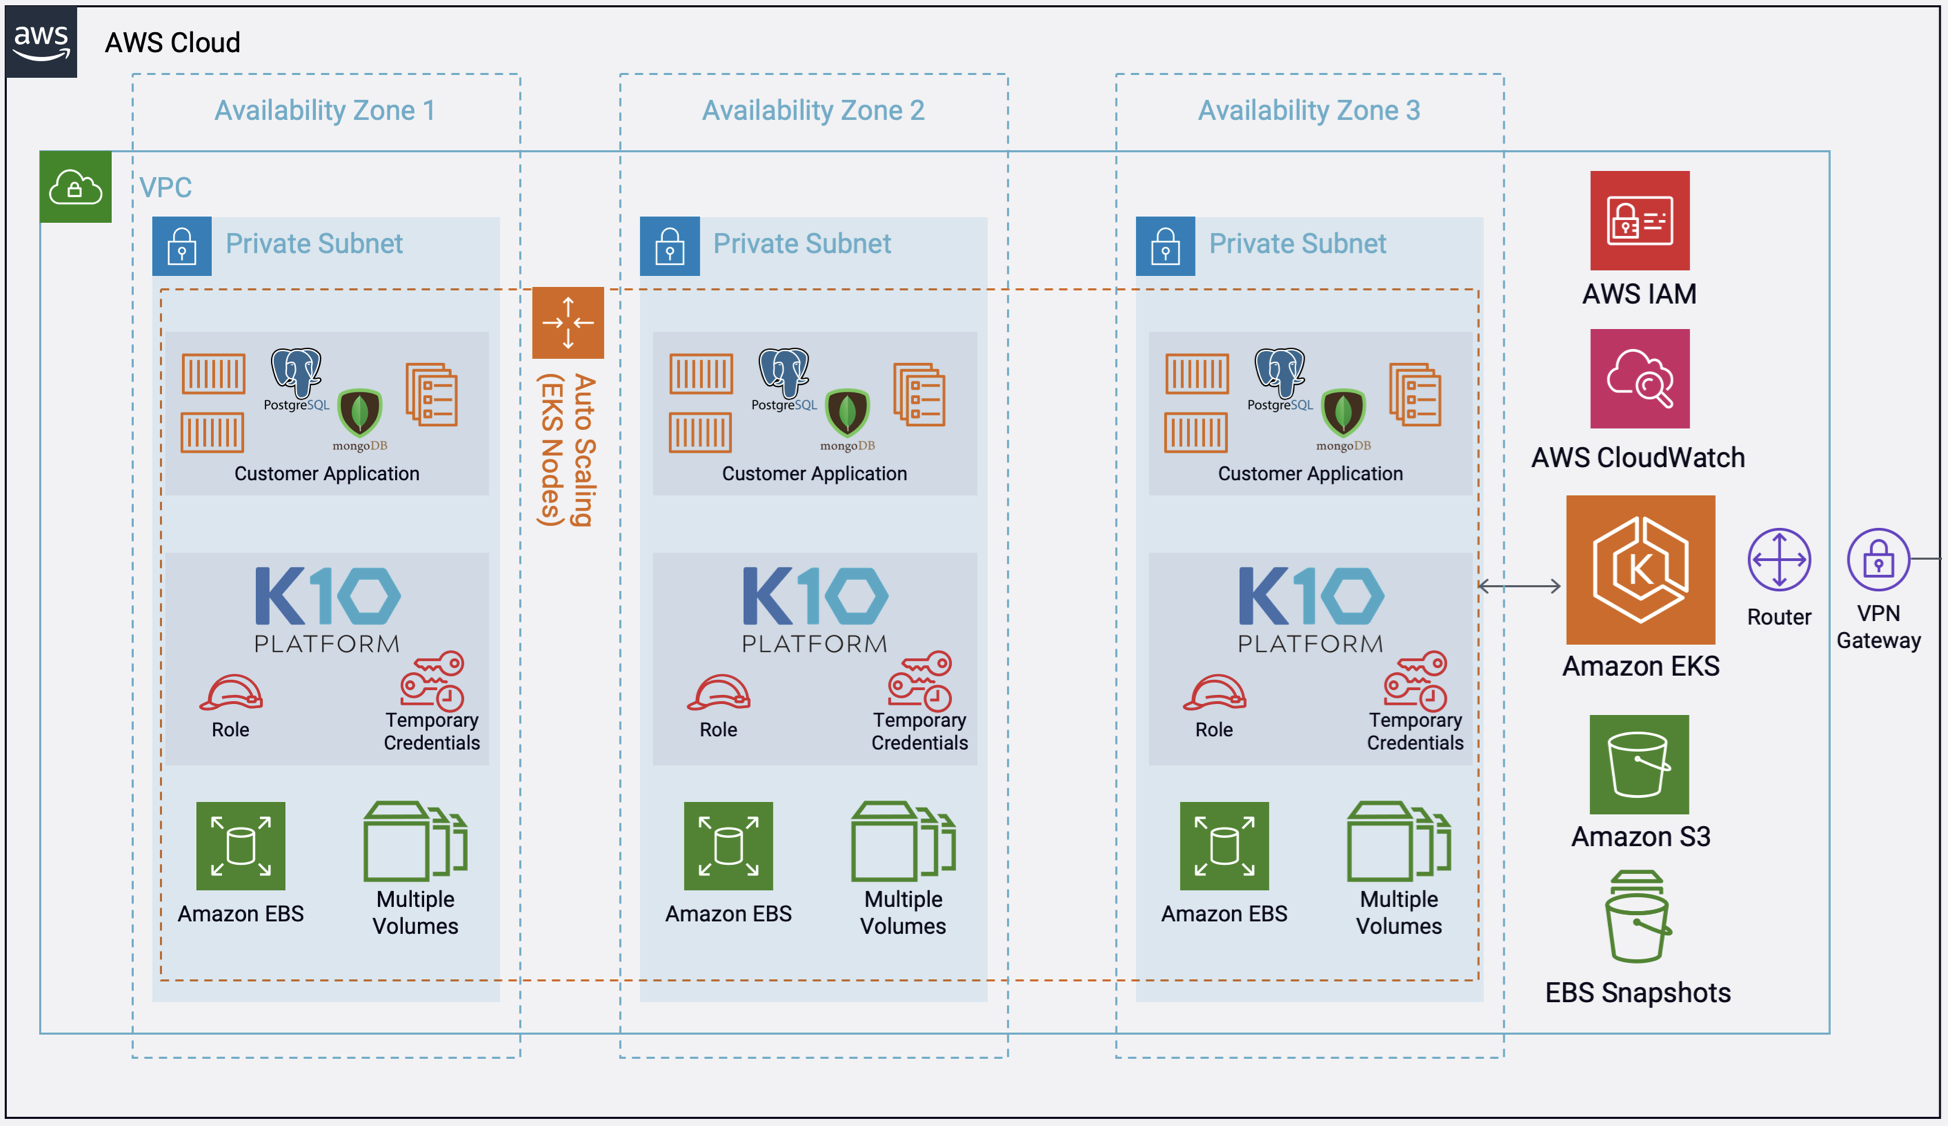
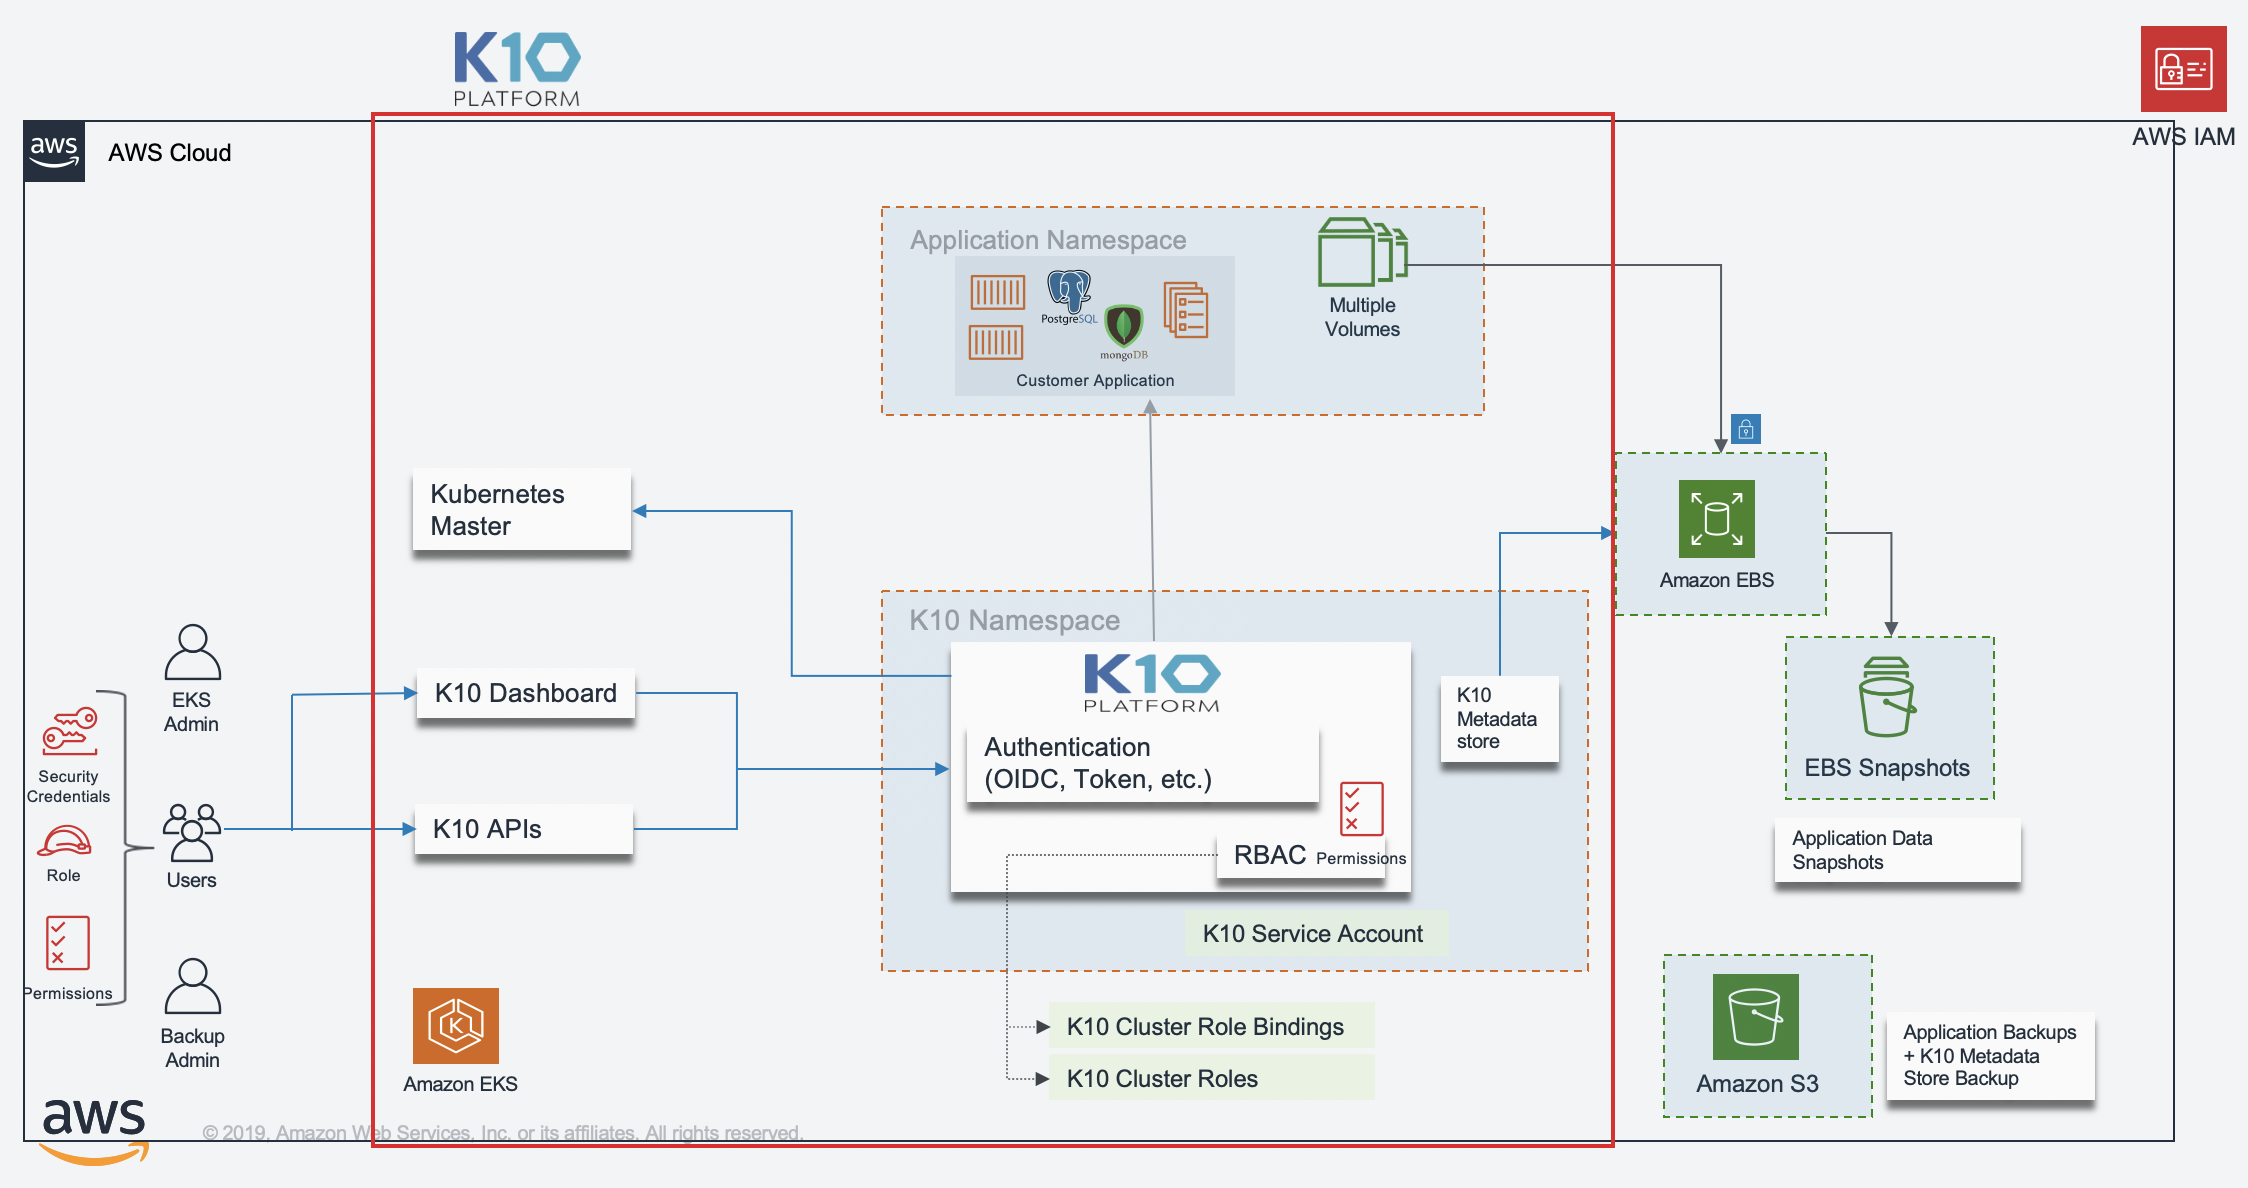
image update

diff --git a/docs/addons/kasten-k10.md b/docs/addons/kasten-k10.md
@@ -20,9 +20,9 @@ The Kasten K10 add-on installs Kasten K10 into your Amazon EKS cluster.
 
 ## Architecture
 Deploying this Quick Start for a new virtual private cloud (VPC) with default parameters builds the following K10 platform in the AWS Cloud. The diagram shows three Availability Zones, leveraging multiple AWS services.
-![Kasten-K10 Architecture ](./../assets/images/kastenk10_image3.png)
-
-
+![Kasten-K10 Architecture](./../assets/images/kastenk10_image3.png)
+More detailed K10 architecture diagram is shown below.
+![Kasten-K10 Architecture](./../assets/images/kastenk10_image4.png)
 ## Usage
 
 ```typescript
